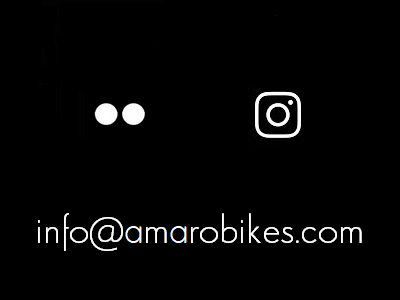
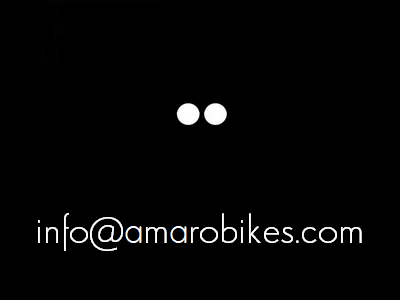
Add files via upload

Changed region(s): [[0.63, 0.3, 0.75, 0.48], [0.42, 0.33, 0.57, 0.42], [0.24, 0.33, 0.36, 0.42]]

diff --git a/index.html b/index.html
@@ -12,8 +12,7 @@
 <div style="text-align: center;">
 <img src="fondo.png" alt="Amaro" usemap="#Amaro">
 <map name="Amaro">
-	<area shape="rect" coords="88,88,151,144" alt="Flickr" href="https://www.flickr.com/amarobikes" target="_blank">
-	<area shape="rect" coords="252,88,303,144" alt="instagram" href="https://www.instagram.com/amarobikes" target="_blank">
+	<area shape="rect" coords="160,70,240,150" alt="Flickr" href="https://www.flickr.com/amarobikes" target="_blank">
 </map>
 </div>
 
